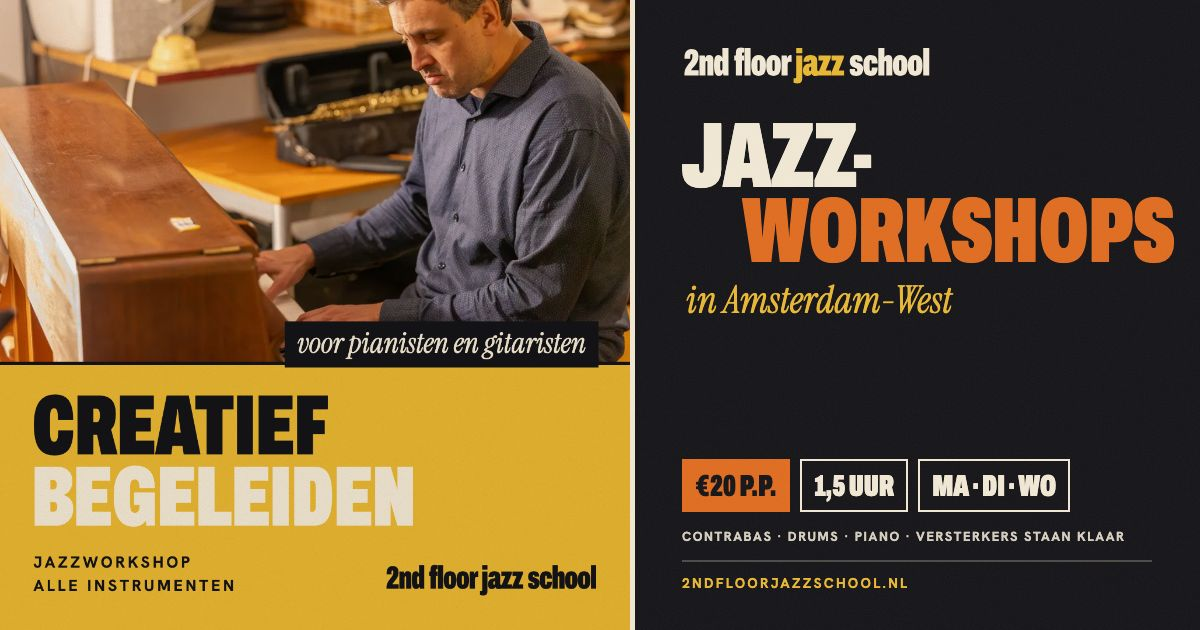
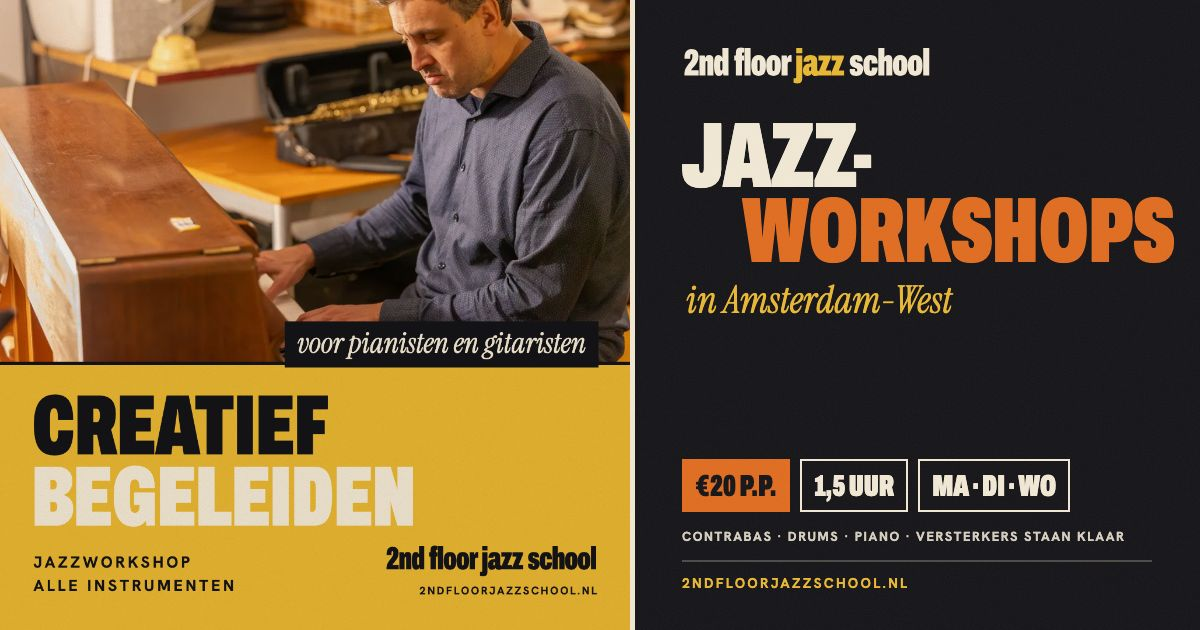
Put the site address on every square poster
Square posts get "2ndfloorjazzschool.nl" right under the logo (all three
templates), so an image shared on its own still leads to the site. A4
flyers and share previews already carried it. All posters re-rendered.

Changed region(s): [[0.3083, 0.8444, 0.5242, 0.9651]]

diff --git a/brand/templates/flyer.js b/brand/templates/flyer.js
@@ -40,3 +40,30 @@ function addQr() {
   fill('qr-label', lines(get('qrlabel', 'Scan voor|meer info')));
 }
 addQr();
+
+// Square posts: put the site address right under the logo (the logo moves up to make room).
+// A4 flyers already carry it in the contact line.
+document.fonts.ready.then(() => {
+  if (FORMAT !== 'square' || q.get('site') === 'none') return;
+  const cover = document.querySelector('.cover');
+  const logo = cover.querySelector('.logo');
+  if (!logo) return;
+  const place = () => {
+    const c = cover.getBoundingClientRect();
+    const unit = c.width / 100;
+    const site = document.createElement('div');
+    site.className = 'site';
+    site.textContent = get('site', '2ndfloorjazzschool.nl');
+    site.style.color = getComputedStyle(cover.querySelector('.info') || cover).color;
+    cover.appendChild(site);
+    const gap = 1.3 * unit;
+    const lift = site.getBoundingClientRect().height + gap;
+    logo.style.bottom = (c.bottom - logo.getBoundingClientRect().bottom + lift) + 'px';
+    const l = logo.getBoundingClientRect();
+    // align with the logo's edge on the side of the cover it sits on
+    if (l.left - c.left < c.right - l.right) site.style.left = (l.left - c.left) + 'px';
+    else site.style.right = (c.right - l.right) + 'px';
+    site.style.top = (l.bottom - c.top + gap) + 'px';
+  };
+  logo.complete ? place() : logo.addEventListener('load', place);
+});

diff --git a/brand/templates/flyer.css b/brand/templates/flyer.css
@@ -46,3 +46,7 @@ body { background: #8d877b; display: grid; place-items: center; min-height: 100v
 
 /* keep the info text clear of the QR code on A4 */
 .a4 .info { max-width: 60cqw; }
+
+/* site address under the logo on square posts, so an image shared on its own still leads to the site */
+.site { position: absolute; z-index: 3; font: 700 1.75cqw/1 "Hanken Grotesk", sans-serif; letter-spacing: .16em; text-transform: uppercase; white-space: nowrap; }
+.a4 .site { display: none; }
